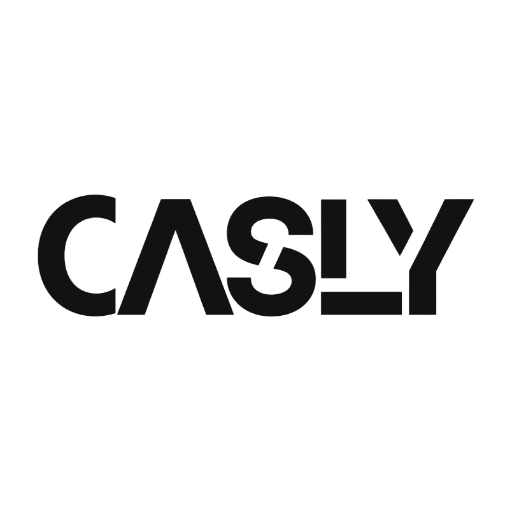
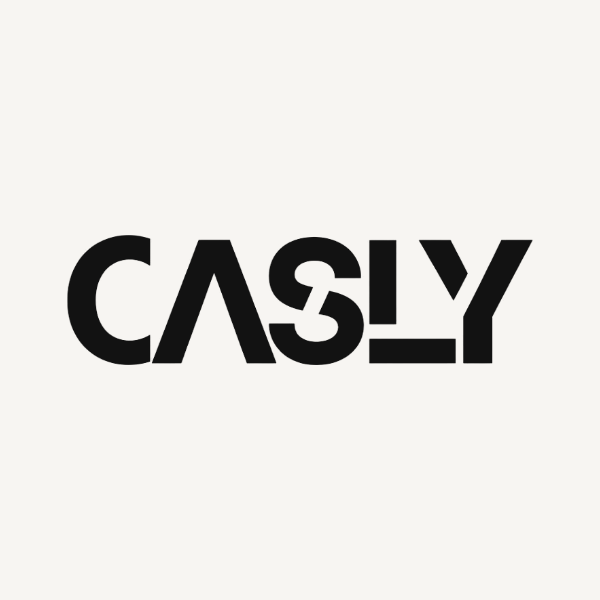
fix(og): add high-res non-circular Open Graph preview and metadataBase for WhatsApp and social link shares

Changed region(s): [[0.0625, 0.375, 0.9375, 0.625]]

diff --git a/app/layout.tsx b/app/layout.tsx
@@ -3,6 +3,10 @@ import "./globals.css";
 import { SmoothScroll } from "@/components/SmoothScroll";
 
 export const metadata: Metadata = {
+  metadataBase: new URL(
+    process.env.NEXT_PUBLIC_SITE_URL ||
+    (process.env.VERCEL_URL ? `https://${process.env.VERCEL_URL}` : "https://casly-demo.vercel.app")
+  ),
   title: "CASLY | Handmade Fashion & Streetwear Atelier",
   description:
     "Slow-stitched streetwear. Individually crafted handmade tie & dye t-shirts, custom hand-painted denim, and limited studio drops.",
@@ -21,12 +25,27 @@ export const metadata: Metadata = {
       "Slow-stitched streetwear. Individually crafted handmade tie & dye t-shirts, custom hand-painted denim, and limited studio drops.",
     siteName: "CASLY",
     type: "website",
+    images: [
+      {
+        url: "/og-image.png?v=20261105",
+        width: 1200,
+        height: 630,
+        alt: "CASLY Atelier",
+      },
+      {
+        url: "/icon.png?v=20261105",
+        width: 600,
+        height: 600,
+        alt: "CASLY",
+      },
+    ],
   },
   twitter: {
     card: "summary_large_image",
     title: "CASLY | Handmade Fashion & Streetwear Atelier",
     description:
       "Slow-stitched streetwear. Individually crafted handmade tie & dye t-shirts, custom hand-painted denim, and limited studio drops.",
+    images: ["/og-image.png?v=20261105"],
   },
 };
 
